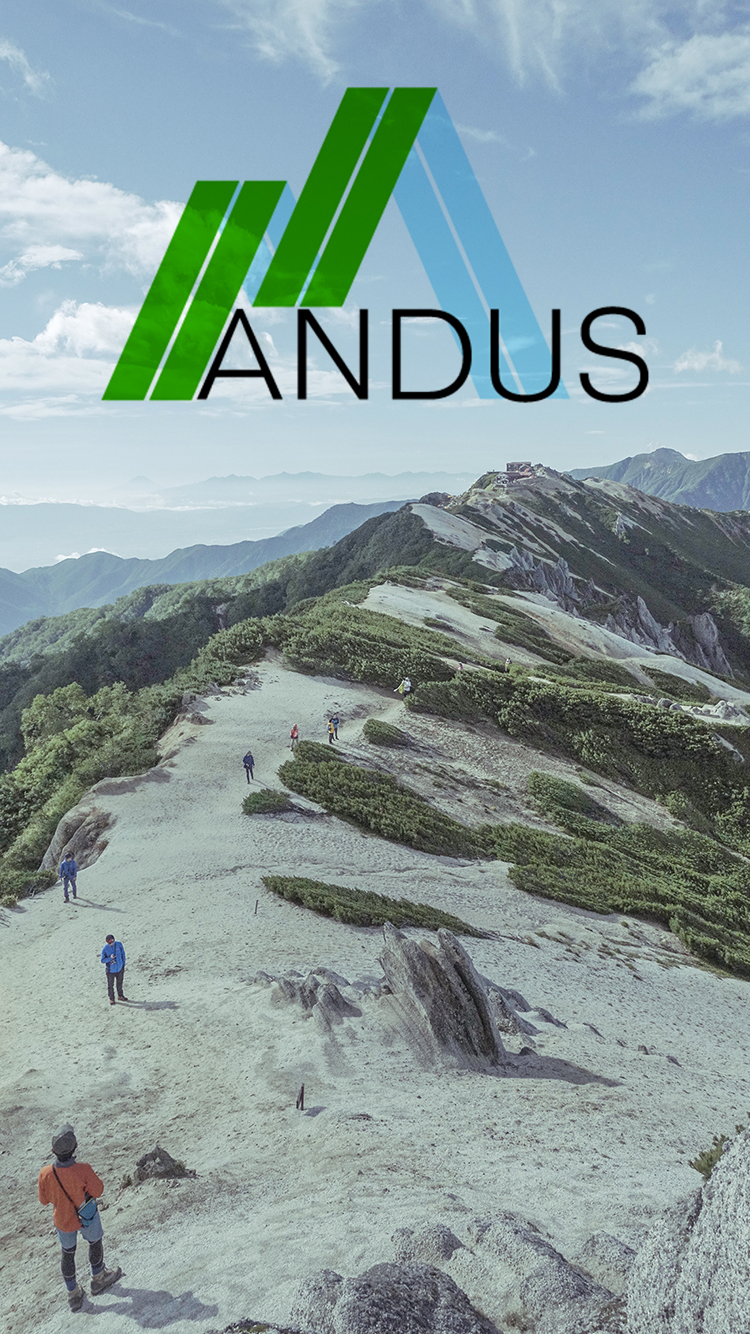
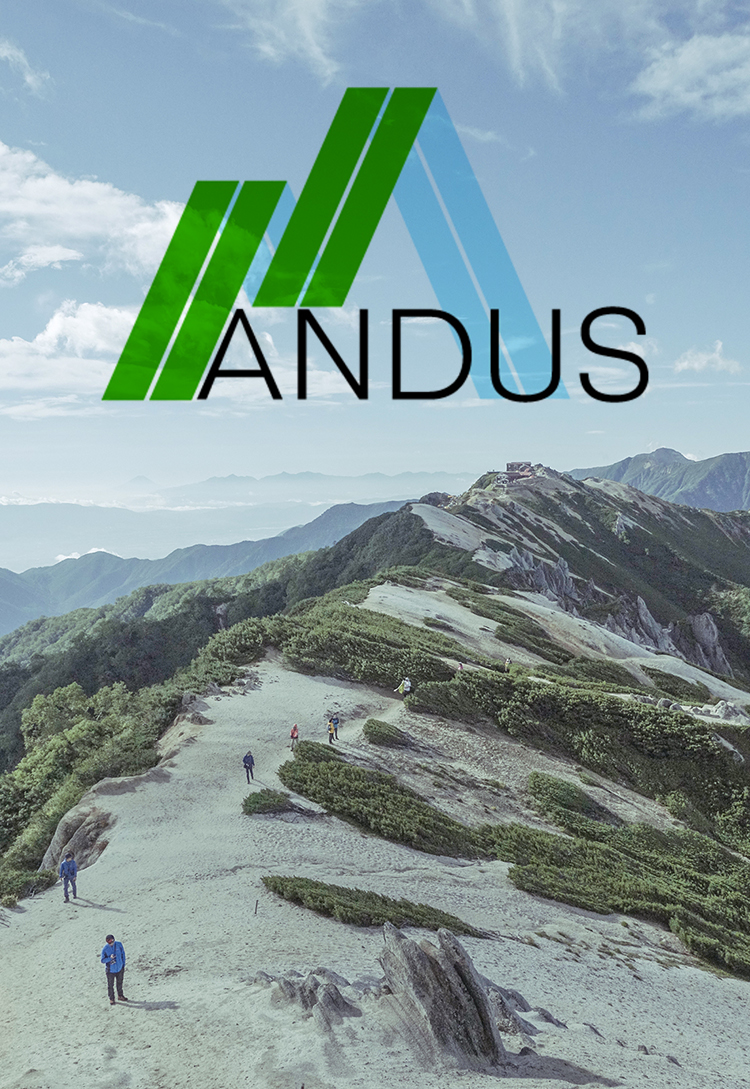
s

diff --git a/index.html b/index.html
@@ -23,6 +23,18 @@
           <p>see more</p>
         </div>
       </div>
+      <div id="section">
+        <h2>MONDUSとは？</h2>
+        <p>「MONDUS」は「山」を意味する「Mountain」と、「カス」を意味する「DUST」を組合わせた造語であり、
+        チリも積もれば山となるという気持ちで、日々の積み重ねを大切にするという言葉です。</p>
+      </div>
+      <div id="section">
+        <h2>活動について</h2>
+        <p>「MONDUS」では、映像や写真などの表現から、webやゲームといったインタラクティブなコンテンツまで、
+          　幅広い表現活動を通して、最適な表現媒体でユーザーにコンテンツを届けます。</p>
+        <div id="button_section"><p>作品をみる</p></div>
+      </div>
+      <footer><p>MONDUS © 2018</p></footer>
     </div>
 </body>
 </html>

diff --git a/css/sp.css b/css/sp.css
@@ -4,7 +4,7 @@
   margin: 0 auto;
 }
 #main_image_pc{
-  margin-top: 0%;
+  margin-top: -55%;
   width: 100%;
   margin-left: 0;
 }
@@ -19,7 +19,7 @@
 #main_image_pc h1{
     z-index: 2;
     position: relative;
-    top: -400px;
+    top: -130px;
     width: 70%;
     left: 25%;
    text-align: left;
@@ -28,12 +28,12 @@
 
    padding-left: 10px;
    border-radius:10px 0px 0px 0px;
-   background-color: rgba(255, 255, 255, 0.20);
+   background-color: rgba(255, 255, 255, 0.40);
 }
 #button p{
   z-index: 2;
   position: relative;
-  top: -350px;
+  top: -120px;
   width: 30%;
   margin-left: 35%;
   background-color: rgba(255, 255, 255, 0.20);
@@ -42,4 +42,8 @@
 #button p:hover{
   width: 30%;
   margin-left: 35%;
+}
+#section {
+  z-index: 3;
+  background-color: #FFFF;
 }

diff --git a/css/style_pc.css b/css/style_pc.css
@@ -64,3 +64,32 @@ body{
 #main_image_sp img{
   display: none;
 }
+#section{
+  margin-top: 50px;
+  width: 600px;
+  margin-left: 200px;
+}
+#button_section p{
+  text-align: center;
+  width: 150px;
+  margin-left: 225px;
+  margin-top: 30px;
+  padding: 10px 0;
+  border-style: solid;
+  border-width: thin;
+  border-radius:10px 0px 0px 0px;
+  border-color: rgb(60, 60, 60);
+}
+#button_section p:hover{
+  background-color: rgb(60, 60, 60);
+  color: rgb(255, 255, 255);
+}
+footer{
+  width: 1000px;
+  margin-top: 100px;
+  background-color: rgb(226, 226, 226);
+}
+footer p{
+  text-align: center;
+  padding: 10px;
+}

diff --git a/css/tablet.css b/css/tablet.css
@@ -23,3 +23,32 @@
   width: 20%;
   margin-left: 40%;
 }
+#section{
+  margin-top: 50px;
+  width: 80%;
+  margin-left: 10%;
+}
+#button_section p{
+  text-align: center;
+  width: 40%;
+  margin-left: 30%;
+  margin-top: 30px;
+  padding: 10px 0;
+  border-style: solid;
+  border-width: thin;
+  border-radius:10px 0px 0px 0px;
+  border-color: rgb(60, 60, 60);
+}
+#button_section p:hover{
+  background-color: rgb(60, 60, 60);
+  color: rgb(255, 255, 255);
+}
+footer{
+  width: 100%;
+  margin-top: 100px;
+  background-color: rgb(226, 226, 226);
+}
+footer p{
+  text-align: center;
+  padding: 10px;
+}
